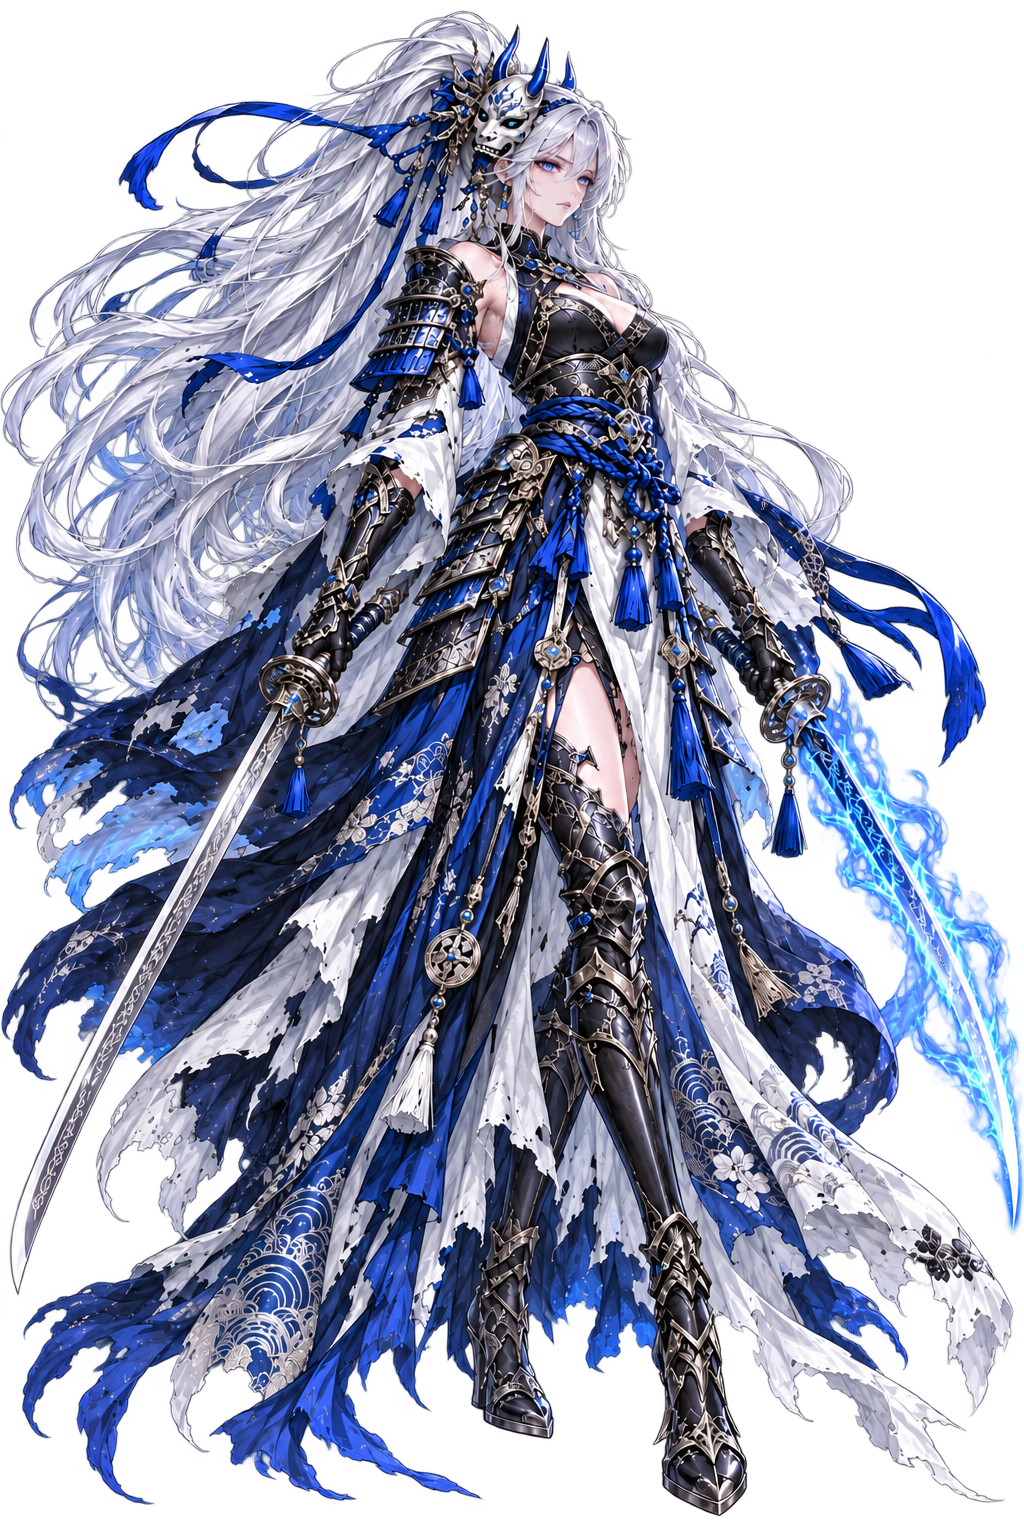
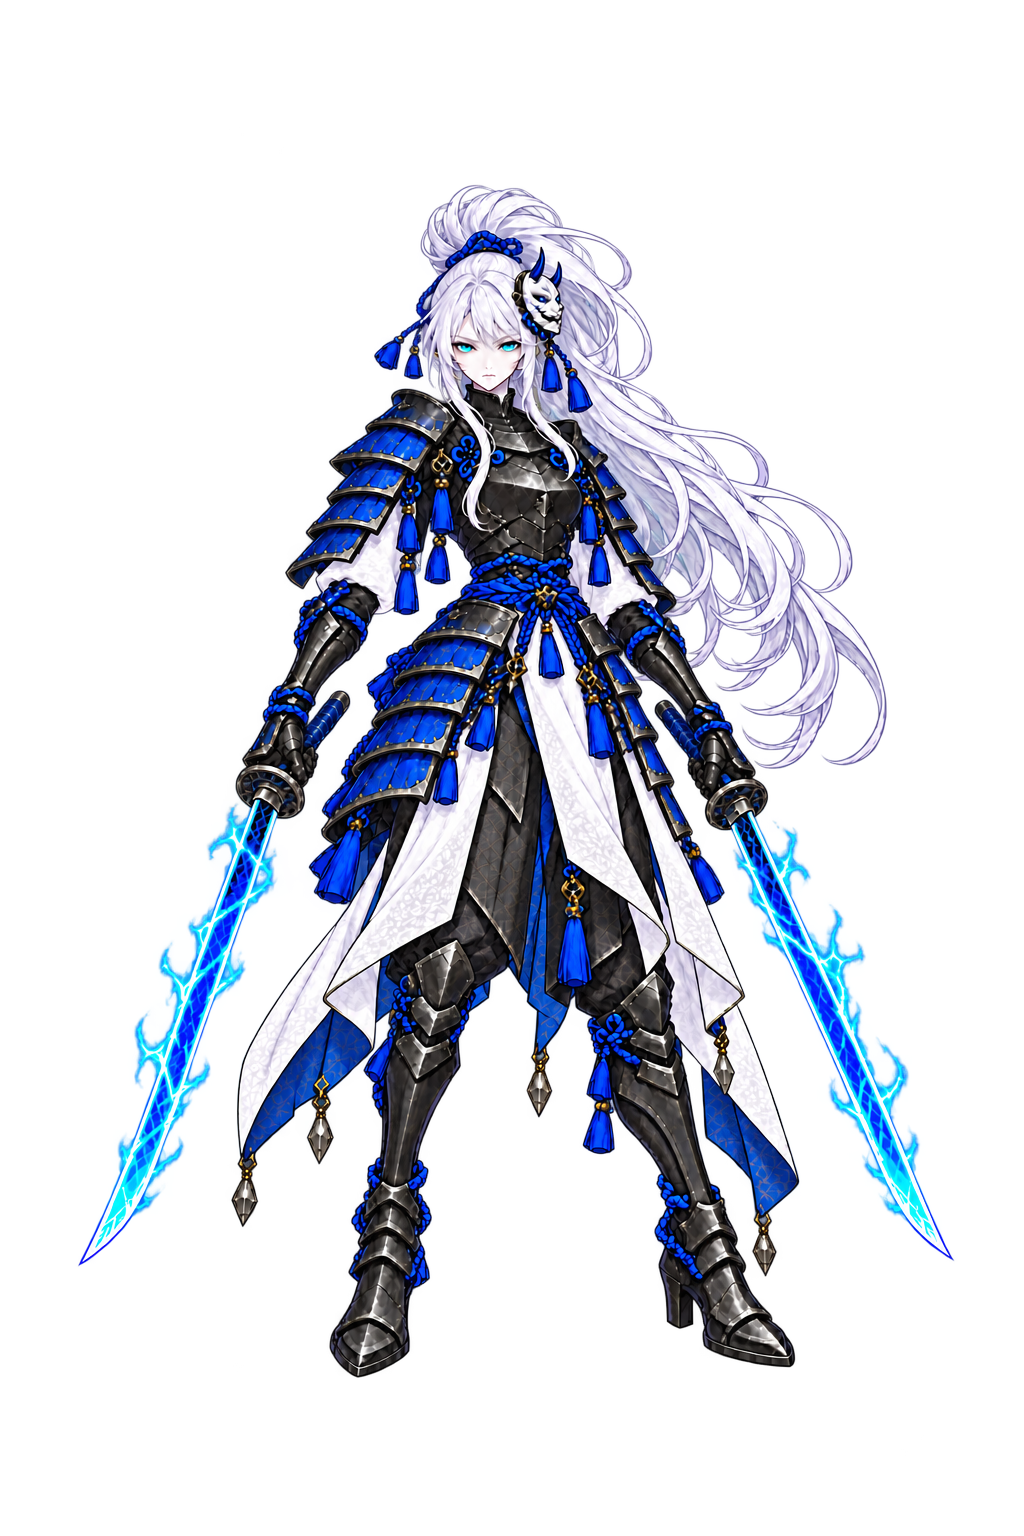
Shirogane's four illustrations wired: the new full-body and close-up for her intro, and the pair with her wolf as an Oath of the Spectral Wolf title card that plays in her phase break over her phase line (Boss.PhaseCard, set by the GameManager for a boss with phase portraits); every boss's title-car

diff --git a/Assets/GameManager.cs b/Assets/GameManager.cs
@@ -147,6 +147,9 @@ public class GameManager : MonoBehaviour
     [SerializeField] Sprite[] shiroWolfVanish;
     [SerializeField] Sprite shiroganePortrait;
     [SerializeField] Sprite shiroganeCloseup;
+    [Tooltip("Her second-phase illustrations, with the wolf: the card that plays as it arrives. Without them her phase line is a subtitle.")]
+    [SerializeField] Sprite shiroganeWolfPortrait;
+    [SerializeField] Sprite shiroganeWolfCloseup;
     [SerializeField] AudioClip shiroganeIntroLine;
     [SerializeField] AudioClip shiroganePhaseLine;
     [SerializeField] AudioClip shiroganeDefeatLine;
@@ -1199,10 +1202,24 @@ public class GameManager : MonoBehaviour
         }
 
         ui.ShowBossBar($"{activeBoss.Title}, {activeBoss.Epithet}", activeBoss.Colour);
+        // A boss with second-phase portraits gets a card for its arrival, played in its phase break.
+        Boss.PhaseCard = lines.phasePortrait != null && lines.phaseCloseup != null ? PlayPhaseCard : null;
         if (sfxLibrary != null) Music.Play(sfxLibrary.battleMusic, sfxLibrary.musicVolume);
         state = State.Playing;
         ronin.ControlsEnabled = true;
         activeBoss.Begin(ronin, army.samuraiPrefab.arrowPrefab);
+    }
+
+    // The second-phase title card: the same cinematic as the intro with the phase art, epithet and line. The music
+    // ducks under it as it would under the spoken line.
+    IEnumerator PlayPhaseCard(Boss boss)
+    {
+        BossVoice lines = VoiceFor(Stage.boss);
+        AudioClip clip = lines.phase;
+        Music.Duck(0.3f, (clip != null ? clip.length : 3f) + 2.5f);
+        voice.volume = voiceVolume * Sfx.Volume;
+        yield return ui.PlayBossIntro(lines.phasePortrait, lines.phaseCloseup, lines.phaseCloseupHeight, lines.phaseCloseupFocus,
+            lines.phaseCloseupAt, boss.Title, lines.phaseEpithet, boss.Colour, voice, clip, boss.Line(BossLine.Phase));
     }
 
     Boss CreateBoss(BossKind kind, Vector3 position)
@@ -1242,6 +1259,11 @@ public class GameManager : MonoBehaviour
         // down), and where that point sits on screen.
         public float closeupHeight;
         public Vector2 closeupFocus, closeupAt;
+        // A second card for the boss's second phase, framed the same way; both sprites or none.
+        public Sprite phasePortrait, phaseCloseup;
+        public string phaseEpithet;
+        public float phaseCloseupHeight;
+        public Vector2 phaseCloseupFocus, phaseCloseupAt;
         public AudioClip intro, phase, defeat, defeatFinal, stagger, smokeRings, rosaryLash, iaido, rosaryBloom, kasaWheel, hourStrikes,
             crescentSlash, bladeRain, eclipseFang;
         public AudioClip[] hurt;
@@ -1272,9 +1294,9 @@ public class GameManager : MonoBehaviour
         BossKind.Benibana => new BossVoice
         {
             portrait = benibanaPortrait, closeup = benibanaCloseup,
-            // The close-ups are landscape paintings with their own dark backdrop; each is framed on the face, high
-            // and right of centre, big enough that the painting's edges sit off screen.
-            closeupHeight = 1500f, closeupFocus = new Vector2(0.47f, 0.27f), closeupAt = new Vector2(420f, 200f),
+            // Each close-up is framed on the face, on the centre line and high enough to clear the title block, big
+            // enough that the painting's edges sit off screen.
+            closeupHeight = 1500f, closeupFocus = new Vector2(0.47f, 0.27f), closeupAt = new Vector2(0f, 200f),
             intro = benibanaIntroLine, phase = benibanaPhaseLine, defeat = benibanaDefeatLine,
             stagger = benibanaStaggerLine, smokeRings = benibanaSmokeRingsLine, rosaryLash = benibanaRosaryLashLine,
             iaido = benibanaIaidoLine, rosaryBloom = benibanaRosaryBloomLine, hurt = benibanaHurtLines,
@@ -1283,15 +1305,19 @@ public class GameManager : MonoBehaviour
         {
             portrait = utsusemiPortrait, closeup = utsusemiCloseup,
             // Framed on its slit-eye under the hat brim, the brim running off the top right.
-            closeupHeight = 1600f, closeupFocus = new Vector2(0.52f, 0.27f), closeupAt = new Vector2(440f, 230f),
+            closeupHeight = 1600f, closeupFocus = new Vector2(0.52f, 0.27f), closeupAt = new Vector2(0f, 230f),
             intro = utsusemiIntroLine, phase = utsusemiPhaseLine, defeat = utsusemiDefeatLine,
             stagger = utsusemiStaggerLine, kasaWheel = utsusemiKasaLine, hourStrikes = utsusemiHourStrikesLine, hurt = utsusemiHurtLines,
         },
         BossKind.Shirogane => new BossVoice
         {
             portrait = shiroganePortrait, closeup = shiroganeCloseup,
-            // Framed on her face, her hair and mask spilling off the top and left.
-            closeupHeight = 1500f, closeupFocus = new Vector2(0.58f, 0.34f), closeupAt = new Vector2(420f, 200f),
+            // Framed on her face, her hair spilling off the top and right.
+            // Taller than the others, since her face sits so high in the painting, so its top edge stays off screen.
+            closeupHeight = 1800f, closeupFocus = new Vector2(0.45f, 0.2f), closeupAt = new Vector2(0f, 200f),
+            // The oath card: the pair centred, her face left of the middle and the wolf's head burning to the right.
+            phasePortrait = shiroganeWolfPortrait, phaseCloseup = shiroganeWolfCloseup, phaseEpithet = Shirogane.OathEpithet,
+            phaseCloseupHeight = 1500f, phaseCloseupFocus = new Vector2(0.52f, 0.3f), phaseCloseupAt = new Vector2(0f, 150f),
             intro = shiroganeIntroLine, phase = shiroganePhaseLine, defeat = shiroganeDefeatLine, defeatFinal = shiroganeDefeatFinalLine,
             stagger = shiroganeStaggerLine, crescentSlash = shiroganeCrescentLine, bladeRain = shiroganeBladeRainLine,
             eclipseFang = shiroganeEclipseLine, hurt = shiroganeHurtLines,
@@ -1371,6 +1397,7 @@ public class GameManager : MonoBehaviour
         yield return GatherDrops();
         effects.Boss = null;
         activeBoss = null;
+        Boss.PhaseCard = null;
         // Her fall lifts the blood moon.
         if (backdrop != null) backdrop.SetBossMoon(false);
 

diff --git a/Assets/GameUI.cs b/Assets/GameUI.cs
@@ -263,13 +263,13 @@ public class GameUI : MonoBehaviour
         glow.sprite = ProceduralSprites.SoftGlow;
         glow.color = new Color(colour.r, colour.g, colour.b, 0.5f);
 
-        // Beat one: her full-body art, sized to the screen's height, right of centre.
+        // Beat one: her full-body art, sized to the screen's height, centred, drifting in from the right.
         RectTransform art = CreateRect("FullArt", root, new Vector2(0.5f, 0.5f), Vector2.zero, new Vector2(1000f * full.rect.width / full.rect.height, 1000f));
         Image artImage = art.gameObject.AddComponent<Image>();
         artImage.sprite = full;
         artImage.preserveAspect = true;
         artImage.color = Color.clear;
-        const float artRestX = 300f, artStartX = 400f;
+        const float artRestX = 0f, artStartX = 90f;
 
         // Beat two: her close-up, framed per boss so the art's cut-off edges sit off screen.
         Vector2 portraitSize = new Vector2(closeUpHeight * closeUp.rect.width / closeUp.rect.height, closeUpHeight);

diff --git a/Assets/Shirogane.cs b/Assets/Shirogane.cs
@@ -29,6 +29,8 @@ public class Shirogane : Boss
 
     public override string Title => "SHIROGANE";
     public override string Epithet => "The Forsaken Blade";
+    // The epithet on her phase-two card.
+    public const string OathEpithet = "Oath of the Spectral Wolf";
     public override Color Colour => Spirit;
 
     public override string Line(BossLine line) => line switch
@@ -899,8 +901,13 @@ public class Shirogane : Boss
         bodyTint = new Color(0.85f, 0.96f, 1f);
         AddAura();
         PlayIdle();
-        Speak(BossLine.Phase);
-        yield return new WaitForSeconds(2.2f);
+        // Her oath: a title card with her and the wolf, over which she speaks; without its art, a subtitle.
+        if (PhaseCard != null) yield return PhaseCard(this);
+        else
+        {
+            Speak(BossLine.Phase);
+            yield return new WaitForSeconds(2.2f);
+        }
         breaking = false;
     }
 

diff --git a/Assets/Editor/BossArtSetup.cs b/Assets/Editor/BossArtSetup.cs
@@ -113,6 +113,8 @@ public static class BossArtSetup
         SetFrames(so.FindProperty("shiroWolfVanish"), TryFrames("SpiritWolf", "Vanish"));
         so.FindProperty("shiroganePortrait").objectReferenceValue = Portrait("Shirogane_Full");
         so.FindProperty("shiroganeCloseup").objectReferenceValue = Portrait("Shirogane_Closeup");
+        so.FindProperty("shiroganeWolfPortrait").objectReferenceValue = Portrait("Shirogane_Wolf_Full");
+        so.FindProperty("shiroganeWolfCloseup").objectReferenceValue = Portrait("Shirogane_Wolf_Closeup");
         foreach (var (field, file) in new[]
         {
             ("shiroganeIntroLine", "Intro"), ("shiroganePhaseLine", "Phase"), ("shiroganeDefeatLine", "Defeat"),

diff --git a/Assets/Boss.cs b/Assets/Boss.cs
@@ -31,6 +31,10 @@ public abstract class Boss : MonoBehaviour, IHittable
     public event Action Defeated;
     public event Action<Boss, BossLine> Spoke;
 
+    // Set by the GameManager for a boss with phase-two portraits: plays a title card for the new phase (its own
+    // art, epithet and the Phase line) and finishes when the card has. Null leaves the phase line as a subtitle.
+    public static System.Func<Boss, IEnumerator> PhaseCard;
+
     public abstract string Title { get; }
     public abstract string Epithet { get; }
     public abstract Color Colour { get; }
